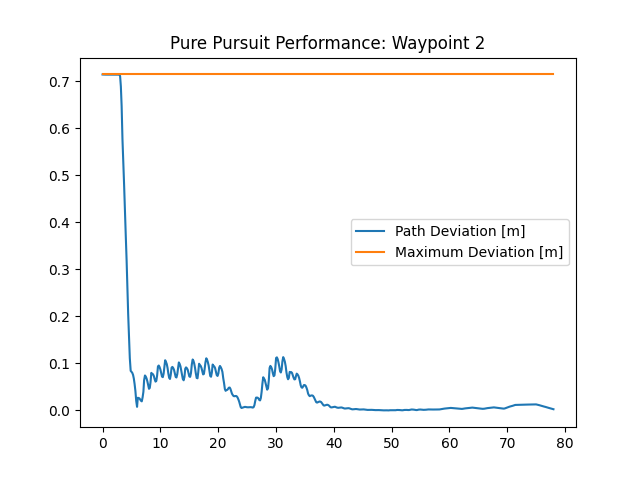
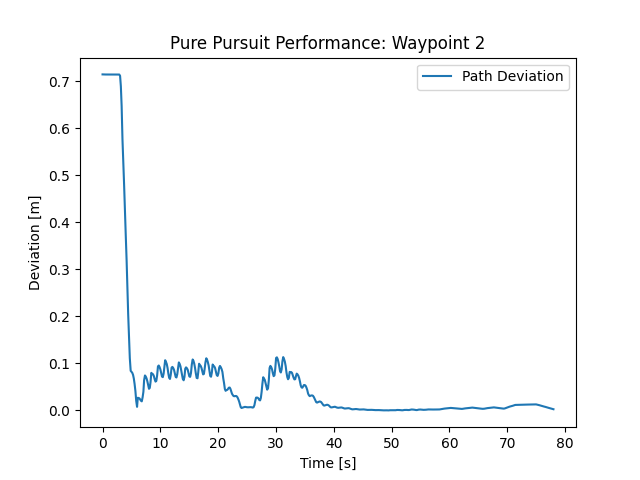
updated plots, added pickup error

diff --git a/analysis/plots/make_rosbag_plot.py b/analysis/plots/make_rosbag_plot.py
@@ -11,9 +11,9 @@ if __name__ == '__main__':
     # get the data from for both waypoints
     columns = ["time", "field_data"]
     df_path_error1 = pd.read_csv(error_path_waypoint1, usecols=columns)
-    df_path_max_error1 = pd.read_csv(max_error_path_waypoint1, usecols=columns)
+    # df_path_max_error1 = pd.read_csv(max_error_path_waypoint1, usecols=columns)
     df_path_error2 = pd.read_csv(error_path_waypoint2, usecols=columns)
-    df_path_max_error2 = pd.read_csv(max_error_path_waypoint2, usecols=columns)
+    # df_path_max_error2 = pd.read_csv(max_error_path_waypoint2, usecols=columns)
 
     # get time data
     time_initial1 = df_path_error1.time[0]
@@ -23,21 +23,49 @@ if __name__ == '__main__':
 
     # get deviation data
     path_deviation1 = df_path_error1.field_data
-    path_max_deviation1 = df_path_max_error1.field_data
+    # path_max_deviation1 = df_path_max_error1.field_data
     path_deviation2 = df_path_error2.field_data
-    path_max_deviation2 = df_path_max_error2.field_data
+    # path_max_deviation2 = df_path_max_error2.field_data
 
 
     fig1 = plt.figure()
     plt.title("Pure Pursuit Performance: Waypoint 1")
-    plt.plot(time1, path_deviation1, label="Path Deviation [m]")
-    plt.plot(time1, path_max_deviation1, label="Maximum Deviation [m]")
+    plt.xlabel("Time [s]")
+    plt.ylabel("Deviation [m]")
+    plt.plot(time1, path_deviation1, label="Path Deviation")
+    # plt.plot(time1, path_max_deviation1, label="Maximum Deviation")
     plt.legend()
     plt.savefig('PP_waypoint1')
 
     fig2 = plt.figure()
     plt.title("Pure Pursuit Performance: Waypoint 2")
-    plt.plot(time2, path_deviation2, label="Path Deviation [m]")
-    plt.plot(time2, path_max_deviation2, label="Maximum Deviation [m]")
+    plt.xlabel("Time [s]")
+    plt.ylabel("Deviation [m]")
+    plt.plot(time2, path_deviation2, label="Path Deviation")
+    # plt.plot(time2, path_max_deviation2, label="Maximum Deviation")
     plt.legend()
     plt.savefig('PP_waypoint2')
+
+    # deviation_csv = '~/catkin_ws/src/Motion-Planning/analysis/rosbags/pickup_deviation/pickup_deviation.csv'
+
+    # # get the data from for both waypoints
+    # columns = ["time", "field_x", "field_y", "field_z"]
+    # df_deviation = pd.read_csv(deviation_csv, usecols=columns)
+
+    # # get time data
+    # time_initial1 = df_deviation.time[0]
+    # time = (np.array(df_deviation.time) - time_initial1)/1e9
+
+    # # get deviation data
+    # x_deviation = df_deviation.field_x
+    # y_deviation = df_deviation.field_y
+
+    # fig1 = plt.figure()
+    # plt.title("Pickup Deviation")
+    # plt.xlabel("Time [s]")
+    # plt.ylabel("Deviation [px]")
+    # plt.plot(time, x_deviation)
+    # plt.plot(time, y_deviation)
+    # plt.legend()
+    # plt.savefig('pickup_deviation')
+
